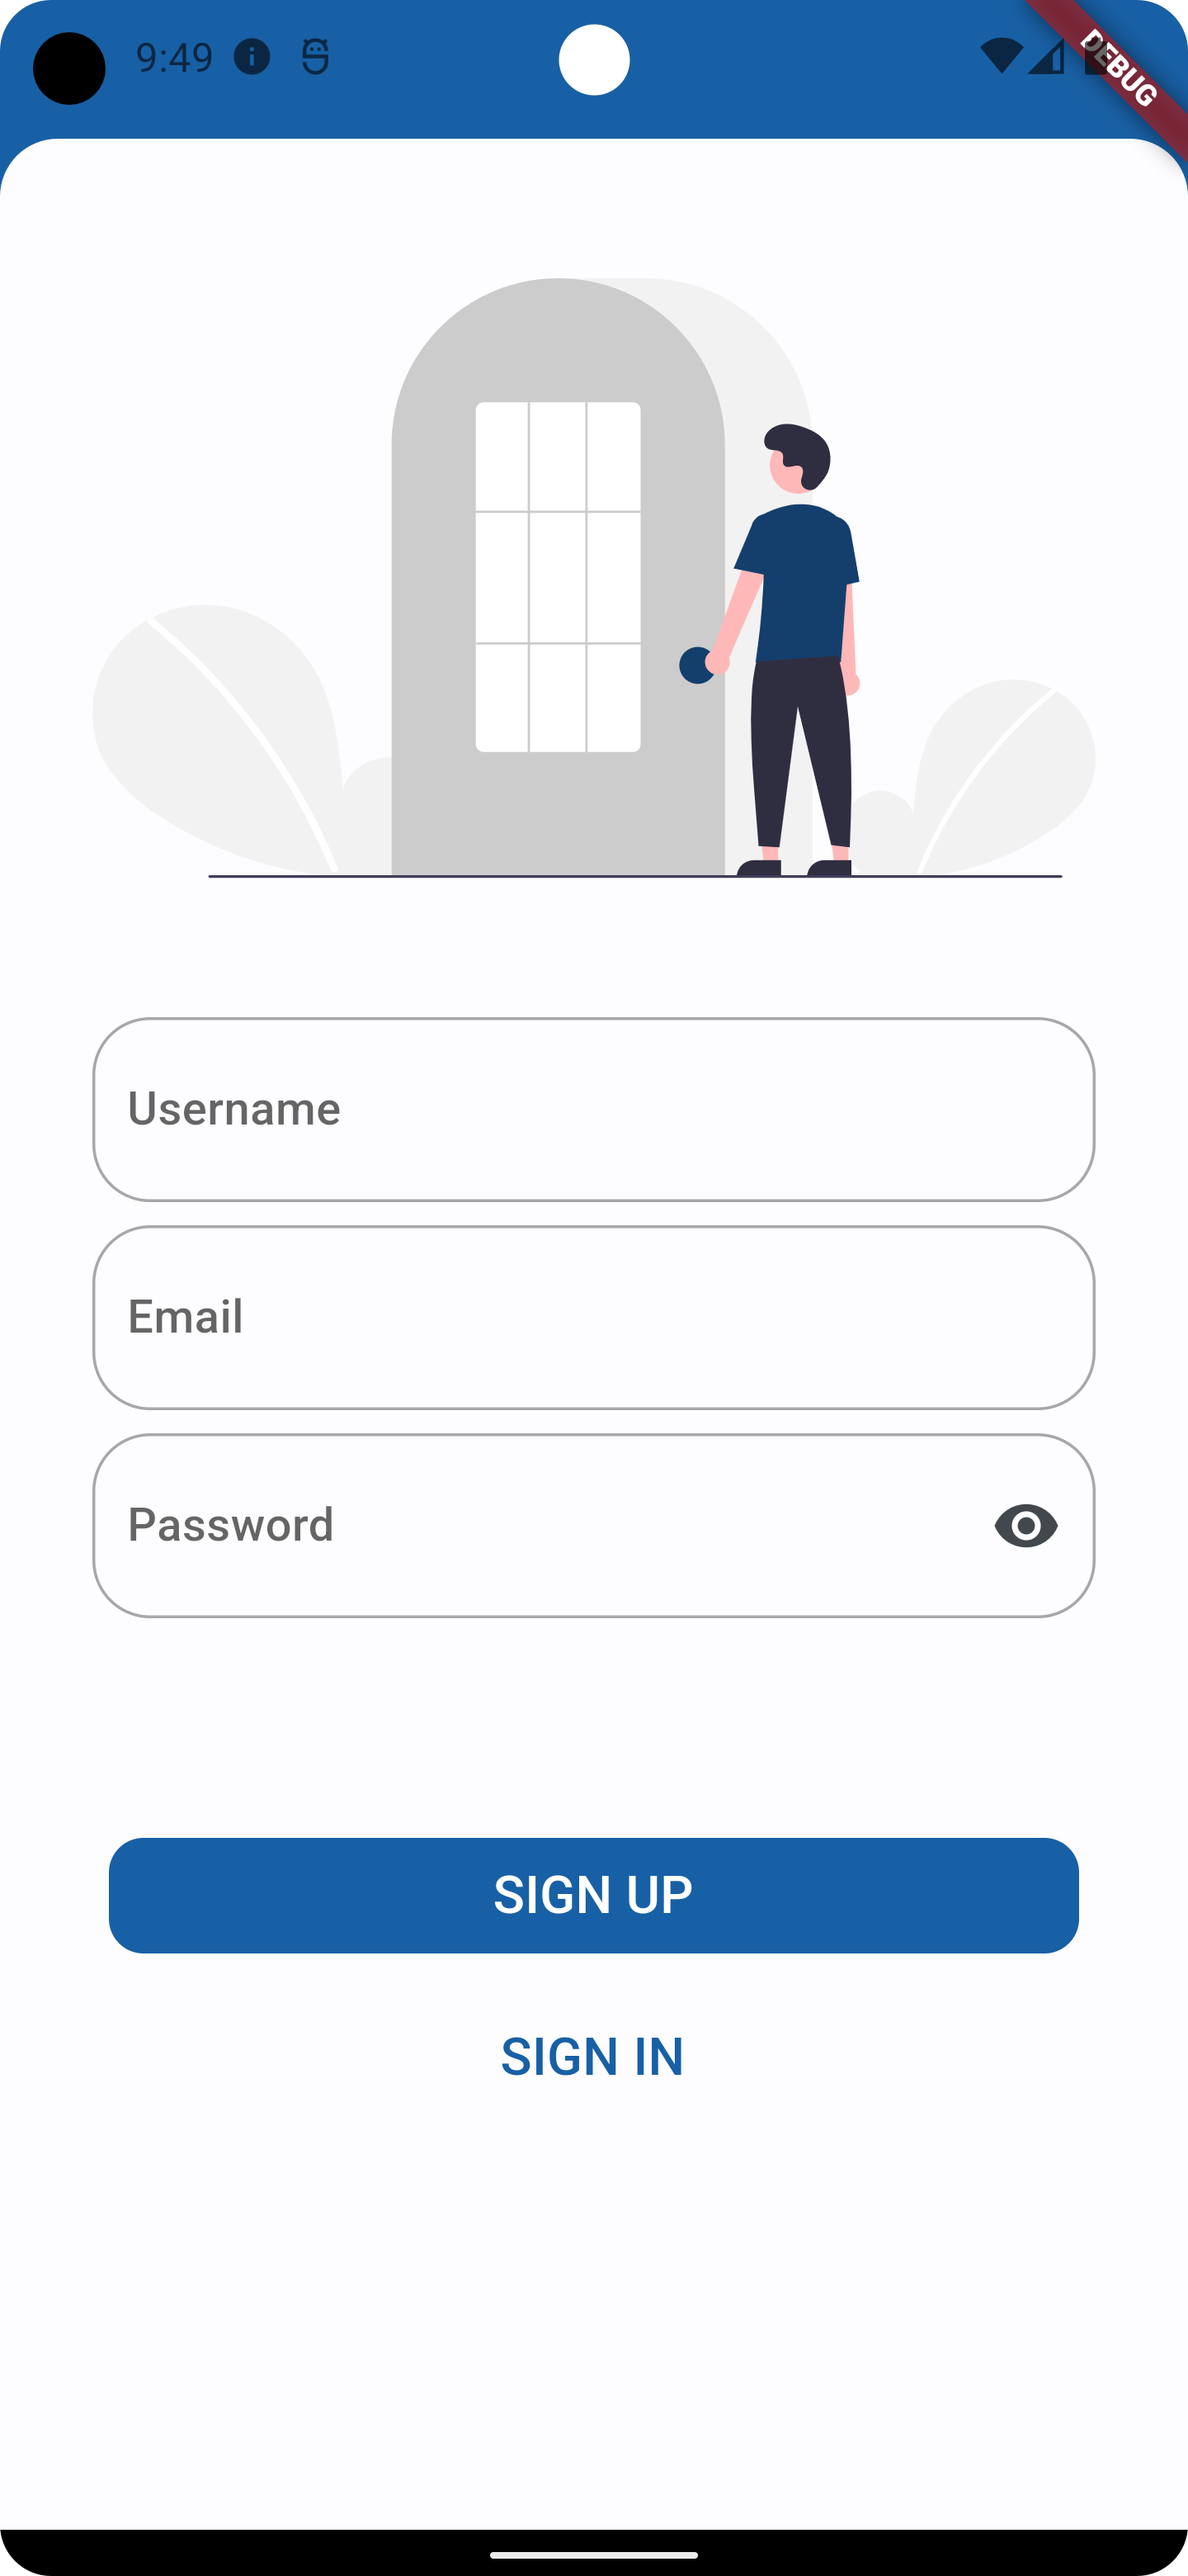
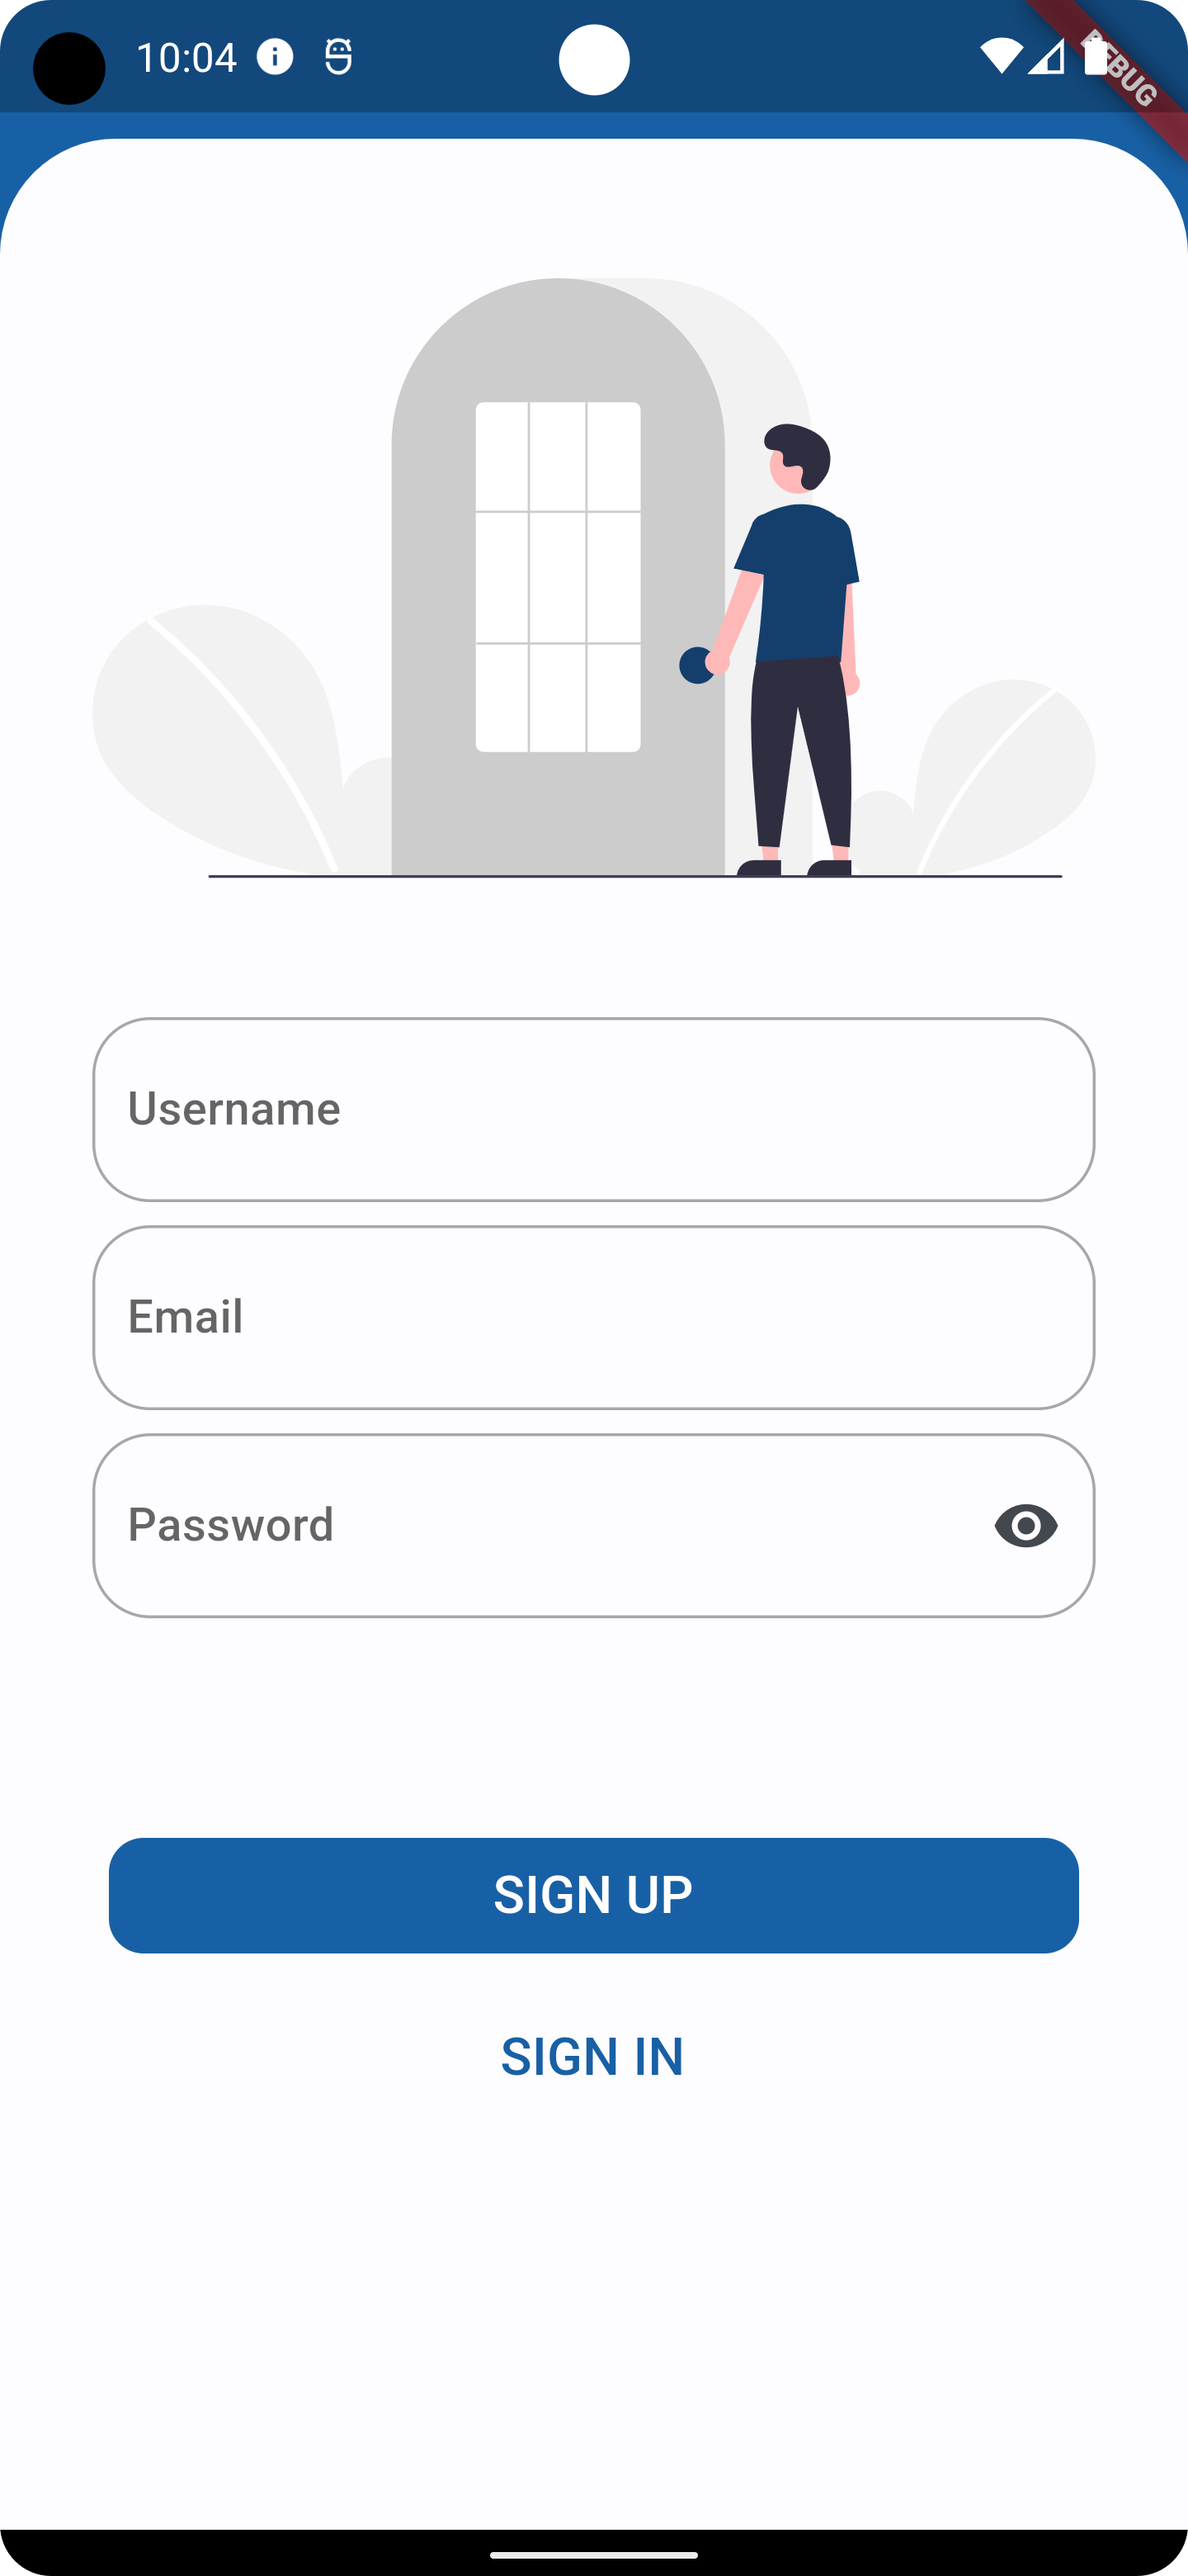
remodel signup

Changed region(s): [[0.0, 0.0, 1.0, 0.0933]]

diff --git a/lib/page/sign_up_page.dart b/lib/page/sign_up_page.dart
@@ -33,8 +33,8 @@ class _SignUpPageState extends State<SignUpPage> {
             decoration: BoxDecoration(
                 color: Theme.of(context).colorScheme.surface,
                 borderRadius: const BorderRadius.only(
-                    topLeft: Radius.circular(20.0),
-                    topRight: Radius.circular(20.0)
+                    topLeft: Radius.circular(40.0),
+                    topRight: Radius.circular(40.0)
                 )
             ),
             child: Column(
